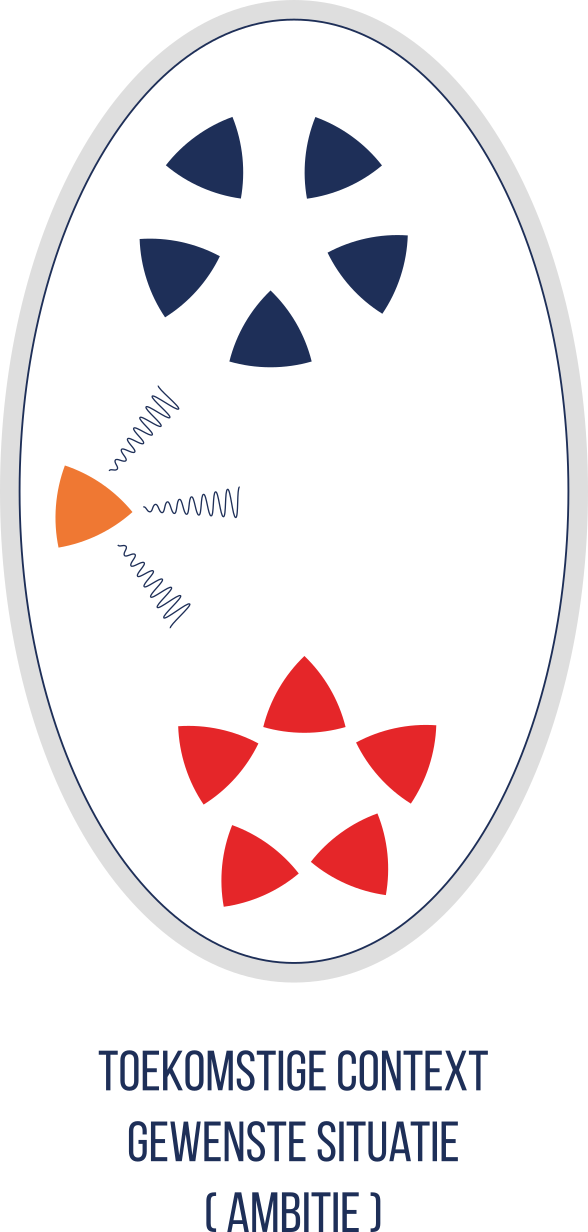
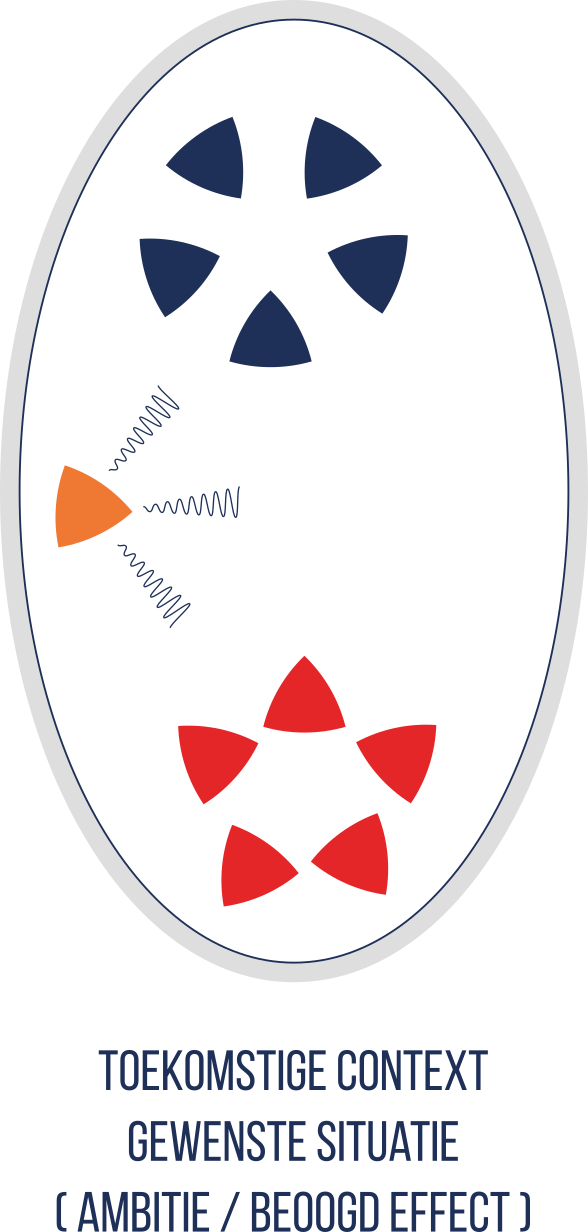
update tekst en images how to think / act

Changed region(s): [[0.0918, 0.9562, 0.8571, 1.0], [0.8878, 0.9562, 0.9184, 1.0], [0.2449, 0.4627, 0.3061, 0.4935]]

diff --git a/docs/kort-cyclisch-moderniseren.html b/docs/kort-cyclisch-moderniseren.html
@@ -166,7 +166,7 @@ code span.wa { color: #60a0b0; font-weight: bold; font-style: italic; } /* Warni
 <ul>
 <li class="chapter" data-level="3.1" data-path="kort-cyclisch-moderniseren.html"><a href="kort-cyclisch-moderniseren.html#effectbrenger"><i class="fa fa-check"></i><b>3.1</b> effectbrenger</a></li>
 <li class="chapter" data-level="3.2" data-path="kort-cyclisch-moderniseren.html"><a href="kort-cyclisch-moderniseren.html#effect"><i class="fa fa-check"></i><b>3.2</b> effect</a></li>
-<li class="chapter" data-level="3.3" data-path="kort-cyclisch-moderniseren.html"><a href="kort-cyclisch-moderniseren.html#huidige-situatie"><i class="fa fa-check"></i><b>3.3</b> huidige situatie</a></li>
+<li class="chapter" data-level="3.3" data-path="kort-cyclisch-moderniseren.html"><a href="kort-cyclisch-moderniseren.html#probleem-context"><i class="fa fa-check"></i><b>3.3</b> probleem context</a></li>
 <li class="chapter" data-level="3.4" data-path="kort-cyclisch-moderniseren.html"><a href="kort-cyclisch-moderniseren.html#experimentele-context"><i class="fa fa-check"></i><b>3.4</b> experimentele context</a></li>
 <li class="chapter" data-level="3.5" data-path="kort-cyclisch-moderniseren.html"><a href="kort-cyclisch-moderniseren.html#toekomstige-context"><i class="fa fa-check"></i><b>3.5</b> toekomstige context</a></li>
 </ul></li>
@@ -272,22 +272,22 @@ Figure 3.4: Abstracte vormgeving van een specifieke context met een ingebrachte 
 </div>
 -->
 </div>
-<div id="huidige-situatie" class="section level2" number="3.3">
-<h2><span class="header-section-number">3.3</span> huidige situatie</h2>
+<div id="probleem-context" class="section level2" number="3.3">
+<h2><span class="header-section-number">3.3</span> probleem context</h2>
 <div class="figure"><span id="fig:eieren-in-beweging-1"></span>
-<img src="data/images/20210324-MDI-eieren-beweging-1.png" alt="Abstracte vormgeving van contexten in beweging." width="150px" />
+<img src="data/images/20210324-MDI-eieren-beweging-1.png" alt="Abstracte vormgeving van probleem context." width="150px" />
 <p class="caption">
-Figure 3.5: Abstracte vormgeving van contexten in beweging.
+Figure 3.5: Abstracte vormgeving van probleem context.
 </p>
 </div>
-<p>Met het inbrengen van vernieuwde effectbrengers reageert de omgeving. Meestal is sprake van een bestaande effectbrenger die verbeterd wordt, soms wordt een geheel nieuwe effectbrenger ontwikkeld. In figuur <a href="kort-cyclisch-moderniseren.html#fig:eieren-in-beweging-1">3.5</a> is de huidige situatie gevisualiseerd met een geactiveerde effectbrenger.</p>
+<p>Een innovatie vraagstuk beschouwen wij als een ‘wicked problem’ in een bekende situatie die wordt geduid als de probleem context. Met het inbrengen van vernieuwde effectbrengers reageert de omgeving. Meestal is sprake van een bestaande effectbrenger die verbeterd wordt, soms wordt een geheel nieuwe effectbrenger ontwikkeld. In figuur <a href="kort-cyclisch-moderniseren.html#fig:eieren-in-beweging-1">3.5</a> is de huidige situatie gevisualiseerd met een geactiveerde effectbrenger.</p>
 </div>
 <div id="experimentele-context" class="section level2" number="3.4">
 <h2><span class="header-section-number">3.4</span> experimentele context</h2>
 <div class="figure"><span id="fig:eieren-in-beweging-2"></span>
-<img src="data/images/20210324-MDI-eieren-beweging-2.png" alt="Abstracte vormgeving van contexten in beweging." width="150px" />
+<img src="data/images/20210324-MDI-eieren-beweging-2.png" alt="Abstracte vormgeving van experimentele context." width="150px" />
 <p class="caption">
-Figure 3.6: Abstracte vormgeving van contexten in beweging.
+Figure 3.6: Abstracte vormgeving van experimentele context.
 </p>
 </div>
 <p>Samen met interne en externe partners ontwikkeld het kenniscentrum of de eenheid de beoogde effectbrenger. Deze wordt getest in een experimentele context. Er wordt als het ware een gecontroleerde operationele omgeving gecreerd binnen een eenheid of oefening. Door het opzetten van een experimentele context kan de ontwikkelde effectbrenger worden beproefd en kunnen de werkelijke reacties van de omgeving worden waargenomen.</p>
@@ -295,9 +295,9 @@ Figure 3.6: Abstracte vormgeving van contexten in beweging.
 <div id="toekomstige-context" class="section level2" number="3.5">
 <h2><span class="header-section-number">3.5</span> toekomstige context</h2>
 <div class="figure"><span id="fig:eieren-in-beweging-3"></span>
-<img src="data/images/20210324-MDI-eieren-beweging-3.png" alt="Abstracte vormgeving van contexten in beweging." width="150px" />
+<img src="data/images/20210324-MDI-eieren-beweging-3.png" alt="Abstracte vormgeving van toekomstige context." width="150px" />
 <p class="caption">
-Figure 3.7: Abstracte vormgeving van contexten in beweging.
+Figure 3.7: Abstracte vormgeving van toekomstige context.
 </p>
 </div>
 <p>Een beoogde effectbrenger voert activiteiten uit in een specifieke context zodat een gewenste situatie of gewenst effect ontstaat in de toekomst. Dit kan klein zijn zoals de invloed van een persoon in een eenheid of ambitieus zoals een informatie gestuurd landoptreden (IGO) in de visie CLAS. Deze gewenste eindsituatie wordt meegenomen in het denkmodel omdat de dit richting geeft aan het ontwikkelproces en de meerwaarde bepaald van de ontwikkelde effectbrenger.

diff --git a/docs/cde-design-model.html b/docs/cde-design-model.html
@@ -166,7 +166,7 @@ code span.wa { color: #60a0b0; font-weight: bold; font-style: italic; } /* Warni
 <ul>
 <li class="chapter" data-level="3.1" data-path="kort-cyclisch-moderniseren.html"><a href="kort-cyclisch-moderniseren.html#effectbrenger"><i class="fa fa-check"></i><b>3.1</b> effectbrenger</a></li>
 <li class="chapter" data-level="3.2" data-path="kort-cyclisch-moderniseren.html"><a href="kort-cyclisch-moderniseren.html#effect"><i class="fa fa-check"></i><b>3.2</b> effect</a></li>
-<li class="chapter" data-level="3.3" data-path="kort-cyclisch-moderniseren.html"><a href="kort-cyclisch-moderniseren.html#huidige-situatie"><i class="fa fa-check"></i><b>3.3</b> huidige situatie</a></li>
+<li class="chapter" data-level="3.3" data-path="kort-cyclisch-moderniseren.html"><a href="kort-cyclisch-moderniseren.html#probleem-context"><i class="fa fa-check"></i><b>3.3</b> probleem context</a></li>
 <li class="chapter" data-level="3.4" data-path="kort-cyclisch-moderniseren.html"><a href="kort-cyclisch-moderniseren.html#experimentele-context"><i class="fa fa-check"></i><b>3.4</b> experimentele context</a></li>
 <li class="chapter" data-level="3.5" data-path="kort-cyclisch-moderniseren.html"><a href="kort-cyclisch-moderniseren.html#toekomstige-context"><i class="fa fa-check"></i><b>3.5</b> toekomstige context</a></li>
 </ul></li>
@@ -231,7 +231,7 @@ code span.wa { color: #60a0b0; font-weight: bold; font-style: italic; } /* Warni
 <div id="design-model" class="section level2" number="4.1">
 <h2><span class="header-section-number">4.1</span> design model</h2>
 <div class="figure"><span id="fig:design-model"></span>
-<img src="data/keynote-slides/20200430-CDE-Designprocess/20200430-CDE-Designprocess.012.png" alt="Totaal weergave van een design concept." width="960" />
+<img src="data/images/20210324-MDI-design-model.png" alt="Totaal weergave van een design concept." width="1864" />
 <p class="caption">
 Figure 4.1: Totaal weergave van een design concept.
 </p>
@@ -243,7 +243,6 @@ Figure 4.1: Totaal weergave van een design concept.
 </div>
 <div id="design-innovation-framework" class="section level2" number="4.2">
 <h2><span class="header-section-number">4.2</span> design &amp; innovation framework</h2>
-<!-- ![](_bookdown_files/images/keynote-slides/20200430-CDE-Designprocess/20200430-CDE-Designprocess.013.png) -->
 <div class="figure"><span id="fig:unnamed-chunk-14"></span>
 <img src="data/keynote-slides/20200430-CDE-Designprocess/20200430-CDE-Designprocess.013.png" alt="Pallet aan activiteiten binnen Military Design &amp; Innovatie." width="960" />
 <p class="caption">

diff --git a/docs/cde-algemeen.html b/docs/cde-algemeen.html
@@ -166,7 +166,7 @@ code span.wa { color: #60a0b0; font-weight: bold; font-style: italic; } /* Warni
 <ul>
 <li class="chapter" data-level="3.1" data-path="kort-cyclisch-moderniseren.html"><a href="kort-cyclisch-moderniseren.html#effectbrenger"><i class="fa fa-check"></i><b>3.1</b> effectbrenger</a></li>
 <li class="chapter" data-level="3.2" data-path="kort-cyclisch-moderniseren.html"><a href="kort-cyclisch-moderniseren.html#effect"><i class="fa fa-check"></i><b>3.2</b> effect</a></li>
-<li class="chapter" data-level="3.3" data-path="kort-cyclisch-moderniseren.html"><a href="kort-cyclisch-moderniseren.html#huidige-situatie"><i class="fa fa-check"></i><b>3.3</b> huidige situatie</a></li>
+<li class="chapter" data-level="3.3" data-path="kort-cyclisch-moderniseren.html"><a href="kort-cyclisch-moderniseren.html#probleem-context"><i class="fa fa-check"></i><b>3.3</b> probleem context</a></li>
 <li class="chapter" data-level="3.4" data-path="kort-cyclisch-moderniseren.html"><a href="kort-cyclisch-moderniseren.html#experimentele-context"><i class="fa fa-check"></i><b>3.4</b> experimentele context</a></li>
 <li class="chapter" data-level="3.5" data-path="kort-cyclisch-moderniseren.html"><a href="kort-cyclisch-moderniseren.html#toekomstige-context"><i class="fa fa-check"></i><b>3.5</b> toekomstige context</a></li>
 </ul></li>

diff --git a/docs/cde-process.html b/docs/cde-process.html
@@ -166,7 +166,7 @@ code span.wa { color: #60a0b0; font-weight: bold; font-style: italic; } /* Warni
 <ul>
 <li class="chapter" data-level="3.1" data-path="kort-cyclisch-moderniseren.html"><a href="kort-cyclisch-moderniseren.html#effectbrenger"><i class="fa fa-check"></i><b>3.1</b> effectbrenger</a></li>
 <li class="chapter" data-level="3.2" data-path="kort-cyclisch-moderniseren.html"><a href="kort-cyclisch-moderniseren.html#effect"><i class="fa fa-check"></i><b>3.2</b> effect</a></li>
-<li class="chapter" data-level="3.3" data-path="kort-cyclisch-moderniseren.html"><a href="kort-cyclisch-moderniseren.html#huidige-situatie"><i class="fa fa-check"></i><b>3.3</b> huidige situatie</a></li>
+<li class="chapter" data-level="3.3" data-path="kort-cyclisch-moderniseren.html"><a href="kort-cyclisch-moderniseren.html#probleem-context"><i class="fa fa-check"></i><b>3.3</b> probleem context</a></li>
 <li class="chapter" data-level="3.4" data-path="kort-cyclisch-moderniseren.html"><a href="kort-cyclisch-moderniseren.html#experimentele-context"><i class="fa fa-check"></i><b>3.4</b> experimentele context</a></li>
 <li class="chapter" data-level="3.5" data-path="kort-cyclisch-moderniseren.html"><a href="kort-cyclisch-moderniseren.html#toekomstige-context"><i class="fa fa-check"></i><b>3.5</b> toekomstige context</a></li>
 </ul></li>

diff --git a/docs/cde-routines.html b/docs/cde-routines.html
@@ -166,7 +166,7 @@ code span.wa { color: #60a0b0; font-weight: bold; font-style: italic; } /* Warni
 <ul>
 <li class="chapter" data-level="3.1" data-path="kort-cyclisch-moderniseren.html"><a href="kort-cyclisch-moderniseren.html#effectbrenger"><i class="fa fa-check"></i><b>3.1</b> effectbrenger</a></li>
 <li class="chapter" data-level="3.2" data-path="kort-cyclisch-moderniseren.html"><a href="kort-cyclisch-moderniseren.html#effect"><i class="fa fa-check"></i><b>3.2</b> effect</a></li>
-<li class="chapter" data-level="3.3" data-path="kort-cyclisch-moderniseren.html"><a href="kort-cyclisch-moderniseren.html#huidige-situatie"><i class="fa fa-check"></i><b>3.3</b> huidige situatie</a></li>
+<li class="chapter" data-level="3.3" data-path="kort-cyclisch-moderniseren.html"><a href="kort-cyclisch-moderniseren.html#probleem-context"><i class="fa fa-check"></i><b>3.3</b> probleem context</a></li>
 <li class="chapter" data-level="3.4" data-path="kort-cyclisch-moderniseren.html"><a href="kort-cyclisch-moderniseren.html#experimentele-context"><i class="fa fa-check"></i><b>3.4</b> experimentele context</a></li>
 <li class="chapter" data-level="3.5" data-path="kort-cyclisch-moderniseren.html"><a href="kort-cyclisch-moderniseren.html#toekomstige-context"><i class="fa fa-check"></i><b>3.5</b> toekomstige context</a></li>
 </ul></li>

diff --git a/docs/index.html b/docs/index.html
@@ -166,7 +166,7 @@ code span.wa { color: #60a0b0; font-weight: bold; font-style: italic; } /* Warni
 <ul>
 <li class="chapter" data-level="3.1" data-path="kort-cyclisch-moderniseren.html"><a href="kort-cyclisch-moderniseren.html#effectbrenger"><i class="fa fa-check"></i><b>3.1</b> effectbrenger</a></li>
 <li class="chapter" data-level="3.2" data-path="kort-cyclisch-moderniseren.html"><a href="kort-cyclisch-moderniseren.html#effect"><i class="fa fa-check"></i><b>3.2</b> effect</a></li>
-<li class="chapter" data-level="3.3" data-path="kort-cyclisch-moderniseren.html"><a href="kort-cyclisch-moderniseren.html#huidige-situatie"><i class="fa fa-check"></i><b>3.3</b> huidige situatie</a></li>
+<li class="chapter" data-level="3.3" data-path="kort-cyclisch-moderniseren.html"><a href="kort-cyclisch-moderniseren.html#probleem-context"><i class="fa fa-check"></i><b>3.3</b> probleem context</a></li>
 <li class="chapter" data-level="3.4" data-path="kort-cyclisch-moderniseren.html"><a href="kort-cyclisch-moderniseren.html#experimentele-context"><i class="fa fa-check"></i><b>3.4</b> experimentele context</a></li>
 <li class="chapter" data-level="3.5" data-path="kort-cyclisch-moderniseren.html"><a href="kort-cyclisch-moderniseren.html#toekomstige-context"><i class="fa fa-check"></i><b>3.5</b> toekomstige context</a></li>
 </ul></li>

diff --git a/docs/intro.html b/docs/intro.html
@@ -166,7 +166,7 @@ code span.wa { color: #60a0b0; font-weight: bold; font-style: italic; } /* Warni
 <ul>
 <li class="chapter" data-level="3.1" data-path="kort-cyclisch-moderniseren.html"><a href="kort-cyclisch-moderniseren.html#effectbrenger"><i class="fa fa-check"></i><b>3.1</b> effectbrenger</a></li>
 <li class="chapter" data-level="3.2" data-path="kort-cyclisch-moderniseren.html"><a href="kort-cyclisch-moderniseren.html#effect"><i class="fa fa-check"></i><b>3.2</b> effect</a></li>
-<li class="chapter" data-level="3.3" data-path="kort-cyclisch-moderniseren.html"><a href="kort-cyclisch-moderniseren.html#huidige-situatie"><i class="fa fa-check"></i><b>3.3</b> huidige situatie</a></li>
+<li class="chapter" data-level="3.3" data-path="kort-cyclisch-moderniseren.html"><a href="kort-cyclisch-moderniseren.html#probleem-context"><i class="fa fa-check"></i><b>3.3</b> probleem context</a></li>
 <li class="chapter" data-level="3.4" data-path="kort-cyclisch-moderniseren.html"><a href="kort-cyclisch-moderniseren.html#experimentele-context"><i class="fa fa-check"></i><b>3.4</b> experimentele context</a></li>
 <li class="chapter" data-level="3.5" data-path="kort-cyclisch-moderniseren.html"><a href="kort-cyclisch-moderniseren.html#toekomstige-context"><i class="fa fa-check"></i><b>3.5</b> toekomstige context</a></li>
 </ul></li>

diff --git a/docs/references.html b/docs/references.html
@@ -166,7 +166,7 @@ code span.wa { color: #60a0b0; font-weight: bold; font-style: italic; } /* Warni
 <ul>
 <li class="chapter" data-level="3.1" data-path="kort-cyclisch-moderniseren.html"><a href="kort-cyclisch-moderniseren.html#effectbrenger"><i class="fa fa-check"></i><b>3.1</b> effectbrenger</a></li>
 <li class="chapter" data-level="3.2" data-path="kort-cyclisch-moderniseren.html"><a href="kort-cyclisch-moderniseren.html#effect"><i class="fa fa-check"></i><b>3.2</b> effect</a></li>
-<li class="chapter" data-level="3.3" data-path="kort-cyclisch-moderniseren.html"><a href="kort-cyclisch-moderniseren.html#huidige-situatie"><i class="fa fa-check"></i><b>3.3</b> huidige situatie</a></li>
+<li class="chapter" data-level="3.3" data-path="kort-cyclisch-moderniseren.html"><a href="kort-cyclisch-moderniseren.html#probleem-context"><i class="fa fa-check"></i><b>3.3</b> probleem context</a></li>
 <li class="chapter" data-level="3.4" data-path="kort-cyclisch-moderniseren.html"><a href="kort-cyclisch-moderniseren.html#experimentele-context"><i class="fa fa-check"></i><b>3.4</b> experimentele context</a></li>
 <li class="chapter" data-level="3.5" data-path="kort-cyclisch-moderniseren.html"><a href="kort-cyclisch-moderniseren.html#toekomstige-context"><i class="fa fa-check"></i><b>3.5</b> toekomstige context</a></li>
 </ul></li>
